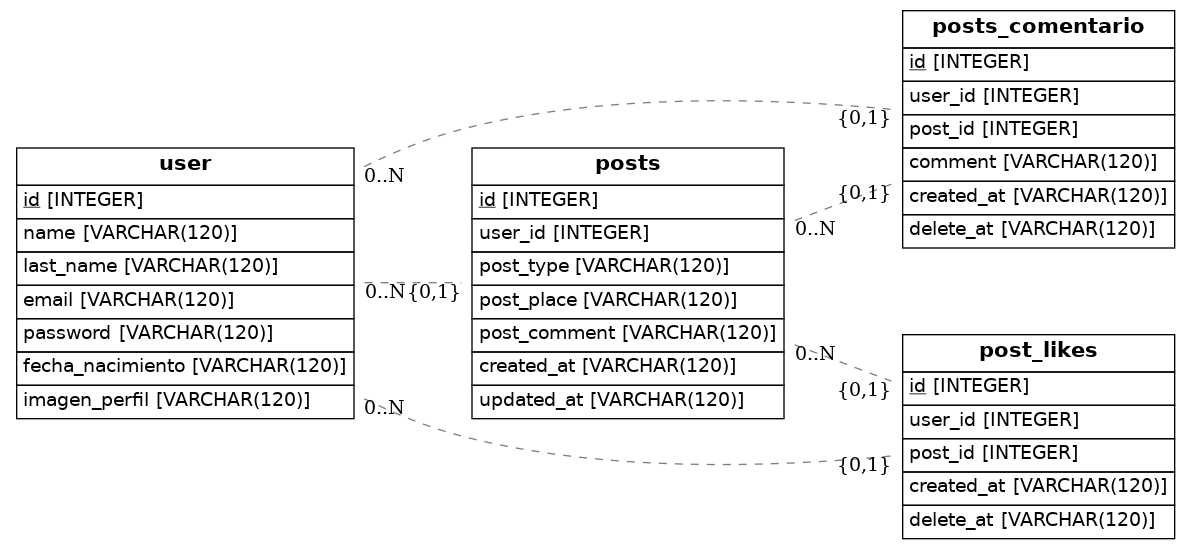
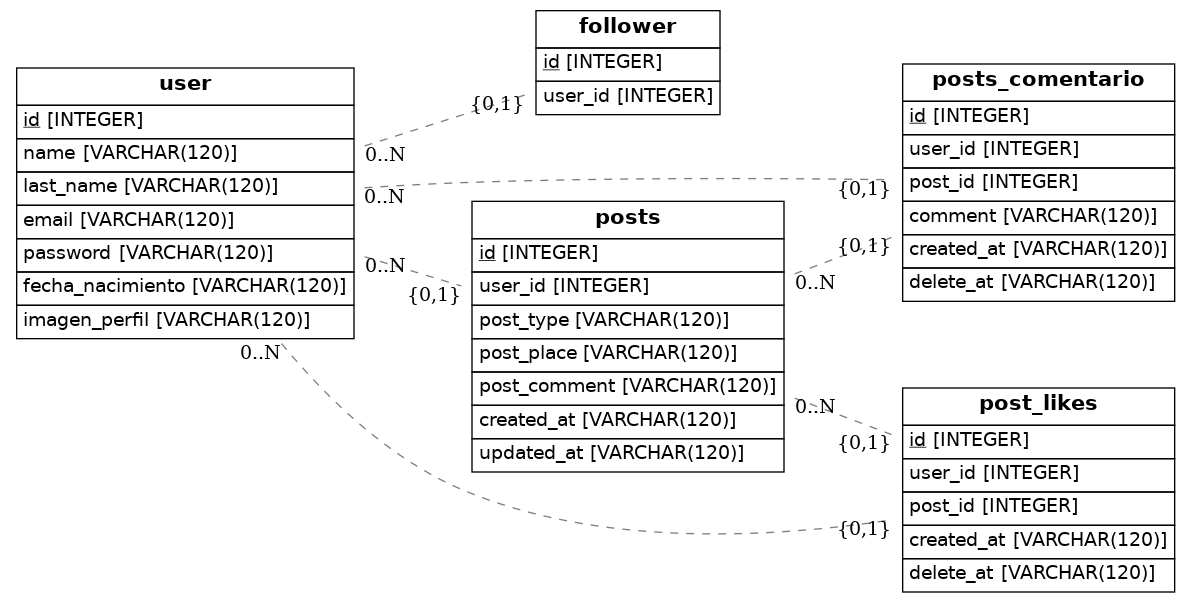
tarea de modelo de base de dato de instagram

Changed region(s): [[0.0, 0.0, 0.9941, 0.9909], [0.4039, 0.0, 0.6213, 0.2168], [0.6524, 0.2787, 0.6835, 0.3097]]

diff --git a/src/models.py b/src/models.py
@@ -19,6 +19,12 @@ class User(Base):
     fecha_nacimiento = Column(String(120), unique=False, nullable=False)
     imagen_perfil = Column(String(120), unique=False, nullable=False)
 
+class Follower(Base):
+    __tablename__ = 'follower'
+    id = Column(Integer, primary_key=True)
+    user_id = Column(Integer, ForeignKey('user.id'))
+ 
+
 class Posts(Base):
     __tablename__ = 'posts'
     id = Column(Integer, primary_key=True)
